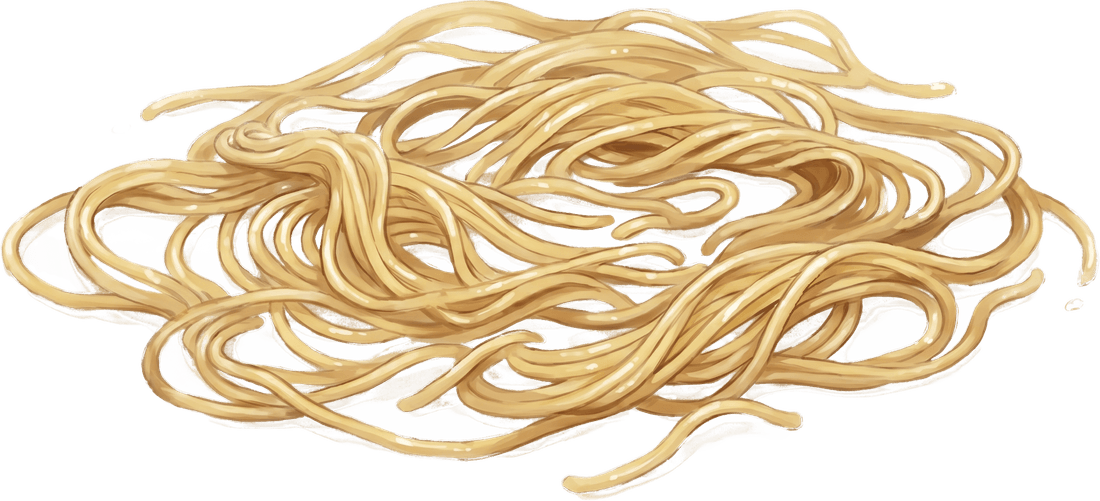
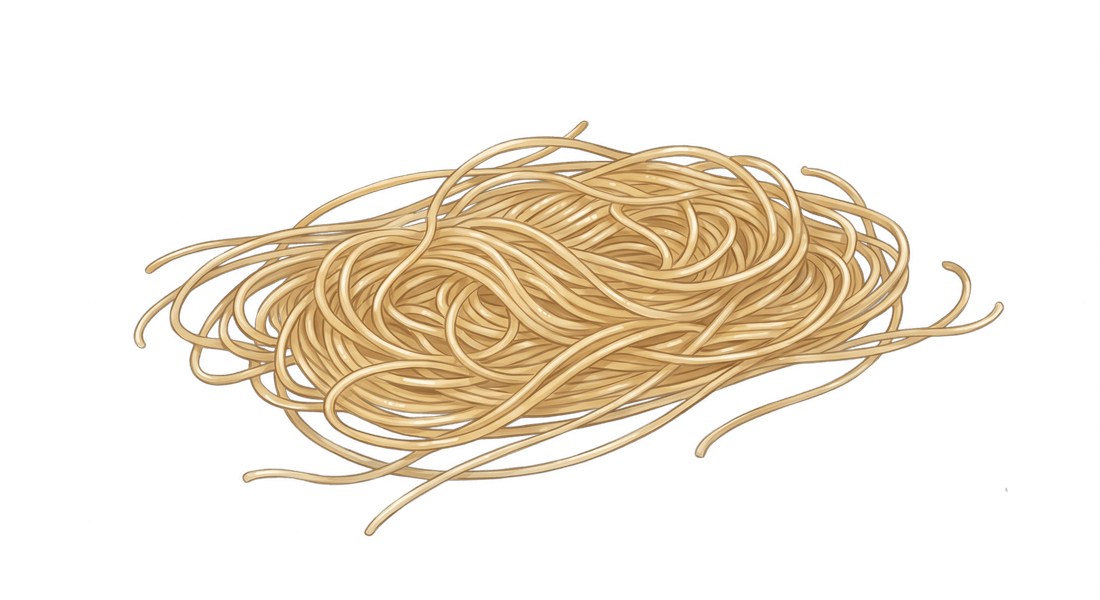
Nudel-Assets komprimiert + Scene-Lab um Nudel-Positionierung erweitert
Nudel-PNGs (duenn/mittel/dick) auf 1100px optimiert (je ~4.7MB -> ~160KB).

Neuer Lab-Modus "Nudeln" (?ansicht=lab): Nudel in der echten Szene mit Reglern
fuer Anker-Position (x/y), Skala und Groesse, Bruehe-Kontext zum Sichtbarmachen
der Wasserlinie, Werte-Snippet fuer ANCHOR_DEFAULT.noodle + NOODLES size.
placeIngredient/composeBowlItems nehmen dafuer optionale Anker-Overrides
(ohne Override identisch zum Normalbetrieb); BowlScene reicht sie als
anchorOverrides-Prop durch.

diff --git a/src/screens/SceneLabScreen.jsx b/src/screens/SceneLabScreen.jsx
@@ -1,6 +1,6 @@
 import { useState } from 'react';
-import { BROTHS } from '../config/menu';
-import { BROTH_CY, BROTH_RX, BROTH_RY } from '../config/sceneConfig';
+import { BROTHS, NOODLES } from '../config/menu';
+import { ANCHOR_DEFAULT, BROTH_CY, BROTH_RX, BROTH_RY } from '../config/sceneConfig';
 import { HERO_LAYOUT, companionWidth, layoutCompanions } from '../scene/heroCompanions';
 import BowlScene from '../scene/BowlScene';
 import BowlThumbnail from '../components/BowlThumbnail';
@@ -277,6 +277,99 @@ function HeroMode() {
   );
 }
 
+function NoodleMode() {
+  const [noodleId, setNoodleId] = useState('mittel');
+  const [broth, setBroth] = useState('tonkotsu');
+  const [brothOn, setBrothOn] = useState(true);
+  const def = ANCHOR_DEFAULT.noodle;
+  const [ax, setAx] = useState(def.x);
+  const [ay, setAy] = useState(def.y);
+  const [ascale, setAscale] = useState(def.scale ?? 1);
+  const [sizes, setSizes] = useState(() =>
+    Object.fromEntries(NOODLES.map((n) => [n.id, n.size])),
+  );
+
+  const size = sizes[noodleId];
+  const ingredients = [{ key: 'noodle', id: noodleId, category: 'noodle', qty: 1 }];
+  const anchorOverrides = { [noodleId]: { x: ax, y: ay, scale: ascale, size } };
+
+  const scalePart = ascale !== 1 ? ` scale: ${ascale},` : '';
+  const snippet =
+    '// sceneConfig.js -> ANCHOR_DEFAULT.noodle (x/y/scale, gilt für alle Nudeln)\n' +
+    `noodle: { x: ${ax}, y: ${ay},${scalePart} satellites: [...] },\n\n` +
+    '// config/menu.js -> NOODLES size (pro Nudel-Sorte)\n' +
+    NOODLES.map((n) => `${n.id}: size ${sizes[n.id]}`).join('\n');
+
+  return (
+    <>
+      <div className="relative flex min-h-[45vh] flex-1 items-center justify-center p-4">
+        <div className="aspect-[700/640] h-full max-h-full w-full max-w-[560px]">
+          <BowlScene
+            broth={brothOn ? broth : null}
+            ingredients={ingredients}
+            anchorOverrides={anchorOverrides}
+          />
+        </div>
+      </div>
+      <div className="flex w-full flex-col gap-5 overflow-y-auto border-t border-line bg-surface p-5 lg:w-96 lg:border-l lg:border-t-0">
+        {/* Nudel-Sorte */}
+        <div className="flex flex-col gap-2">
+          <span className="text-small font-semibold text-ink-900">Nudel-Sorte</span>
+          <div className="flex flex-wrap gap-2">
+            {NOODLES.map((n) => (
+              <Toggle key={n.id} on={noodleId === n.id} onClick={() => setNoodleId(n.id)} color="primary">
+                {n.name}
+              </Toggle>
+            ))}
+          </div>
+        </div>
+
+        {/* Brühe-Kontext (Wasserlinie sichtbar machen) */}
+        <div className="flex flex-col gap-2">
+          <span className="text-small font-semibold text-ink-900">Brühe-Kontext</span>
+          <div className="flex flex-wrap gap-2">
+            <Toggle on={brothOn} onClick={() => setBrothOn((v) => !v)} color="primary">
+              Brühe an
+            </Toggle>
+            {brothOn &&
+              BROTHS.map((b) => (
+                <Toggle key={b.id} on={broth === b.id} onClick={() => setBroth(b.id)} color="gold">
+                  {b.name}
+                </Toggle>
+              ))}
+          </div>
+        </div>
+
+        {/* Regler */}
+        <div className="flex flex-col gap-4">
+          <Slider label="Position x (Anker)" value={ax} min={-120} max={120} defaultValue={def.x} onChange={setAx} />
+          <Slider label="Position y (Höhe/Tiefe)" value={ay} min={-60} max={80} defaultValue={def.y} onChange={setAy} />
+          <Slider label="Skala (Anker)" value={ascale} min={0.5} max={1.8} step={0.05} defaultValue={def.scale ?? 1} onChange={setAscale} />
+          <Slider
+            label={`Größe (${noodleId})`}
+            value={size}
+            min={180}
+            max={460}
+            step={5}
+            defaultValue={NOODLES.find((n) => n.id === noodleId)?.size}
+            onChange={(v) => setSizes((s) => ({ ...s, [noodleId]: v }))}
+          />
+        </div>
+
+        <ValueBox
+          snippet={snippet}
+          onReset={() => {
+            setAx(def.x);
+            setAy(def.y);
+            setAscale(def.scale ?? 1);
+            setSizes(Object.fromEntries(NOODLES.map((n) => [n.id, n.size])));
+          }}
+        />
+      </div>
+    </>
+  );
+}
+
 function ValueBox({ snippet, onReset }) {
   return (
     <div className="flex flex-col gap-2">
@@ -308,9 +401,12 @@ export default function SceneLabScreen() {
     <div className="flex h-full min-h-0 flex-col bg-bg">
       <div className="flex items-center gap-3 border-b border-line bg-surface px-5 py-3">
         <h1 className="font-display text-h2 text-ink-900">Scene-Lab</h1>
-        <div className="flex gap-2">
+        <div className="flex flex-wrap gap-2">
           <Toggle on={mode === 'broth'} onClick={() => setMode('broth')} color="primary">
             Brühe
+          </Toggle>
+          <Toggle on={mode === 'noodle'} onClick={() => setMode('noodle')} color="primary">
+            Nudeln
           </Toggle>
           <Toggle on={mode === 'hero'} onClick={() => setMode('hero')} color="primary">
             Status-Komposition
@@ -318,7 +414,9 @@ export default function SceneLabScreen() {
         </div>
       </div>
       <div className="flex min-h-0 flex-1 flex-col overflow-y-auto lg:flex-row">
-        {mode === 'broth' ? <BrothMode /> : <HeroMode />}
+        {mode === 'broth' && <BrothMode />}
+        {mode === 'noodle' && <NoodleMode />}
+        {mode === 'hero' && <HeroMode />}
       </div>
     </div>
   );

diff --git a/src/scene/composeBowl.js b/src/scene/composeBowl.js
@@ -24,19 +24,23 @@ function pickVariant(variants, qty) {
   return best;
 }
 
-export function composeBowlItems(ingredients) {
+// overrides (optional, nur fürs Scene-Lab): { [id]: { x?, y?, scale?, size? } } —
+// überschreibt Anker/Größe einer Zutat live; ohne overrides identisch zum Normalbetrieb.
+export function composeBowlItems(ingredients, overrides = null) {
   const items = [];
   for (const ing of ingredients) {
     const option = OPTIONS_BY_CATEGORY[ing.category]?.find((o) => o.id === ing.id);
     if (!option) continue;
     const qty = ing.qty ?? 1;
+    const ov = overrides?.[ing.id] ?? null;
+    const size = ov?.size ?? option.size;
 
     const baseSrc = `/assets/${ing.category}/${ing.id}.png`;
     const variant = pickVariant(option.sceneVariants ?? [1], qty);
     const mainSrc = variant > 1 ? `/assets/${ing.category}/${ing.id}-x${variant}.png` : baseSrc;
 
     // Haupt-Item am Anker (stabiler key -> ermöglicht den Mini-Plop bei Mengenwechsel).
-    const main = placeIngredient(ing.id, ing.category);
+    const main = placeIngredient(ing.id, ing.category, null, ov);
     items.push({
       key: ing.key,
       layer: layerFor(ing.category, main.layer),
@@ -45,7 +49,7 @@ export function composeBowlItems(ingredients) {
         // Fallback-Leiter: fehlende Variante -> Basis-Asset -> Farb-Blob (sceneColor).
         fallbackSrc: variant > 1 ? baseSrc : null,
         color: option.sceneColor,
-        size: option.size,
+        size,
       },
       x: main.x,
       y: main.y,
@@ -57,11 +61,11 @@ export function composeBowlItems(ingredients) {
     // Satelliten für die restliche Menge (immer Basis-Asset; eigener key -> fällt neu,
     // Reduktion unmountet nur den höchsten, ohne Bestands-Satelliten zu bewegen).
     for (let n = 0; n < qty - variant; n++) {
-      const p = placeIngredient(ing.id, ing.category, n);
+      const p = placeIngredient(ing.id, ing.category, n, ov);
       items.push({
         key: `${ing.key}-sat-${n}`,
         layer: layerFor(ing.category, p.layer),
-        option: { src: baseSrc, fallbackSrc: null, color: option.sceneColor, size: option.size },
+        option: { src: baseSrc, fallbackSrc: null, color: option.sceneColor, size },
         x: p.x,
         y: p.y,
         scale: p.scale,

diff --git a/src/scene/placement.js b/src/scene/placement.js
@@ -14,13 +14,16 @@ const clamp = (v, lo, hi) => Math.max(lo, Math.min(hi, v));
  * @param {string} id         Zutaten-id (Anker-Schlüssel)
  * @param {string} category   "noodle" | "protein" | "topping" (Fallback-Anker)
  * @param {number|null} satellite  Satelliten-Index (null = Haupt-Item am Anker)
+ * @param {{x?:number,y?:number,scale?:number}|null} override  Anker live überschreiben
+ *        (nur fürs Scene-Lab; ohne Override identisch zum Normalbetrieb). Wirkt auf
+ *        die Anker-Basis, Satelliten-Offsets kommen wie gehabt oben drauf.
  * @returns {{x,y,frontness,scale,layer,float}}
  */
-export function placeIngredient(id, category, satellite = null) {
+export function placeIngredient(id, category, satellite = null, override = null) {
   const anchor = ANCHORS[id] ?? ANCHOR_DEFAULT[category] ?? ANCHOR_DEFAULT.topping;
-  let x = anchor.x;
-  let y = anchor.y;
-  let s = anchor.scale ?? 1;
+  let x = override?.x ?? anchor.x;
+  let y = override?.y ?? anchor.y;
+  let s = override?.scale ?? anchor.scale ?? 1;
 
   if (satellite != null) {
     const sats = anchor.satellites ?? ANCHOR_DEFAULT.topping.satellites;

diff --git a/src/scene/BowlScene.jsx b/src/scene/BowlScene.jsx
@@ -130,7 +130,7 @@ function SceneReadySignal({ onReady }) {
   return null;
 }
 
-export default function BowlScene({ broth = null, ingredients = [], onReady, brothGeom }) {
+export default function BowlScene({ broth = null, ingredients = [], onReady, brothGeom, anchorOverrides }) {
   const brothRef = useRef();
   const handleImpact = useCallback((x, y) => {
     brothRef.current?.ripple(x, y);
@@ -153,7 +153,7 @@ export default function BowlScene({ broth = null, ingredients = [], onReady, bro
   }, [broth]);
 
   // Semantische Liste -> platzierte Instanzen (gemeinsame Logik mit BowlThumbnail).
-  const items = useMemo(() => composeBowlItems(ingredients), [ingredients]);
+  const items = useMemo(() => composeBowlItems(ingredients, anchorOverrides), [ingredients, anchorOverrides]);
 
   // Exit-Choreografie: useTransition besitzt den Lebenszyklus (Leave-Ende = Unmount,
   // Re-Add mit gleichem key kehrt den Spring um statt zu remounten). t: 1 (lebt) -> 0